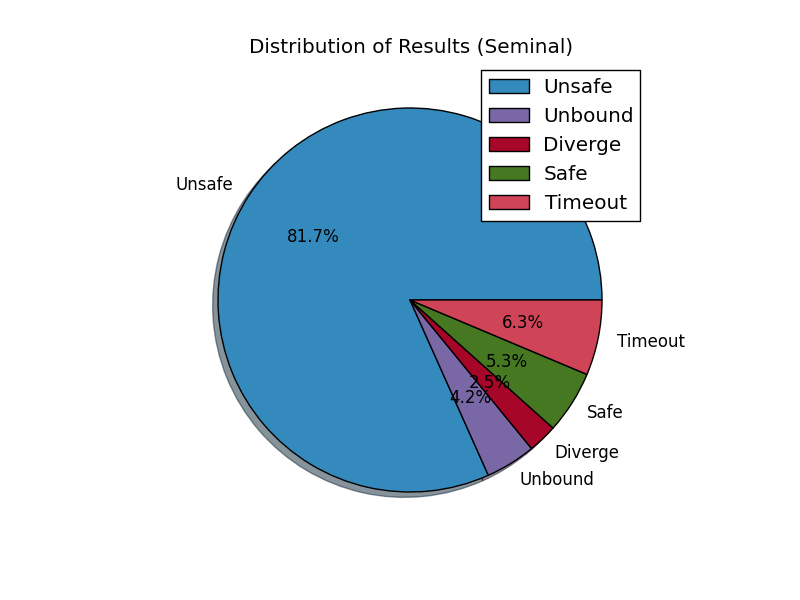
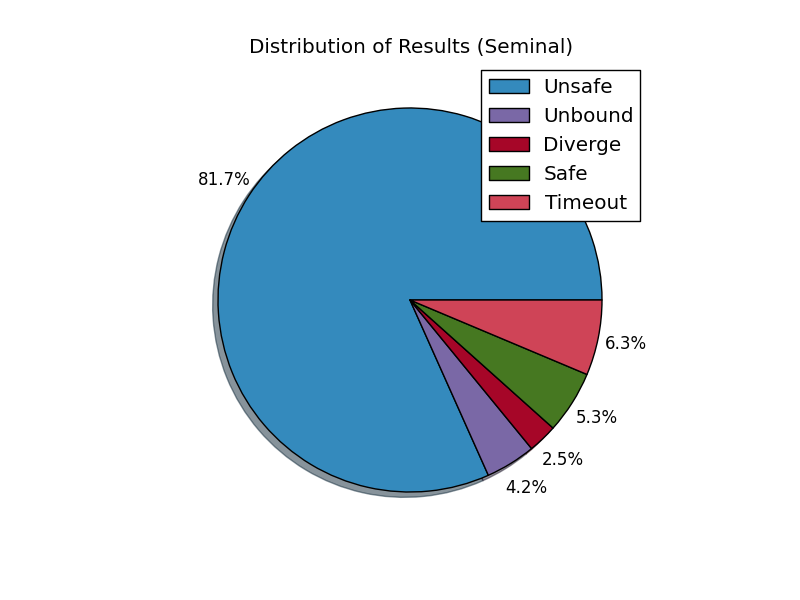
trace size graph for seminal

diff --git a/paper/pldi16-submission/plots.py b/paper/pldi16-submission/plots.py
@@ -46,6 +46,44 @@ def plot_coverage(data):
 
     plt.show()
 
+def plot_trace_size(data, label):
+    # xy = cumulative_coverage(data)
+
+    # N = len(xy)
+    # ind = np.arange(N)    # the x locations for the groups
+    # width = 0.5       # the width of the bars: can also be len(x) sequence
+
+    # p1 = plt.bar(ind, [r[1] for r in xy], width,
+    #              color=COLORS[0])
+
+    step = [int(r[5]) for r in data[1:] if r[4] in UNSAFE and int(r[5]) > 0]
+    jump = [int(r[6]) for r in data[1:] if r[4] in UNSAFE and int(r[6]) > 0]
+    
+    bins = [0, 5, 10, 20, 50, 100, 1000]
+    binlabels = ['<5', '5-9', '10-19', '20-49', '50-99', '>=100']
+    ind = np.arange(1, len(bins))
+    width = 0.35
+
+    fig, ax = plt.subplots()
+
+    y,binEdges=np.histogram(step,bins=bins)
+    p1 = ax.bar(ind, y, label='Steps', width=width, color=COLORS[0])
+
+    y,binEdges=np.histogram(jump,bins=bins)
+    p2 = ax.bar(ind+width, y, label='Jumps', width=width, color=COLORS[1])
+    # p1 = plt.bar(0.5*(binEdges[1:]+binEdges[:-1]), y, label='Steps')
+    # p1 = plt.hist([step,jump], bins=bins, label=['Steps', 'Jumps'], range=(0,300), color=COLORS[:2])
+
+    # plt.xlabel('Size')
+    plt.ylabel('Traces')
+    plt.title('Size of generated traces (%s)' % label)
+    plt.xticks(ind + width, binlabels)
+    # plt.yticks(np.arange(0.0, 1.1, 0.1))
+    # plt.legend((p1[0],), ('Seminal',))
+    plt.legend((p1[0], p2[0]), ('Steps', 'Jumps'))
+
+    plt.show()
+
 def plot_distrib(data, label):
     data = data[1:]
     rs = [len([r for r in data if r[4] == o])
@@ -58,6 +96,8 @@ def plot_distrib(data, label):
     plt.axes(aspect=1)
     p1 = plt.pie(rs, labels=ALL_L,
                  autopct='%.1f%%',
+                 pctdistance=1.15,
+                 labeldistance=10,
                  colors=COLORS,
                  shadow=True)
 
@@ -73,3 +113,4 @@ def plot_distrib(data, label):
     # plt.legend((p1[0], p2[0]), ('Men', 'Women'))
 
     plt.show()
+

diff --git a/paper/pldi16-submission/evaluation-witness.tex b/paper/pldi16-submission/evaluation-witness.tex
@@ -80,8 +80,8 @@ in the program, and thus valuable feedback for the user.
 % \end{axis}
 % \end{tikzpicture}
 
-  Have a table or graph! \ES{graph of cumulative errors per timeout? \ie
-    monotonically increasing, with a cap of 90\% or so}
+  % Have a table or graph! \ES{graph of cumulative errors per timeout? \ie
+  %   monotonically increasing, with a cap of 90\% or so}
 \caption{Experimental results}
 \label{fig:results-witness}
 \end{figure}

diff --git a/paper/pldi16-submission/evaluation-nanomaly.tex b/paper/pldi16-submission/evaluation-nanomaly.tex
@@ -26,7 +26,7 @@ generated trace according to the following metrics:
 %
 \begin{figure}[t]
 \centering
-Have a graph!  
+  \includegraphics[width=\linewidth]{trace_size_seminal.png}
 \caption{Complexity of the generated traces.}
 \label{fig:results-complexity}
 \end{figure}
